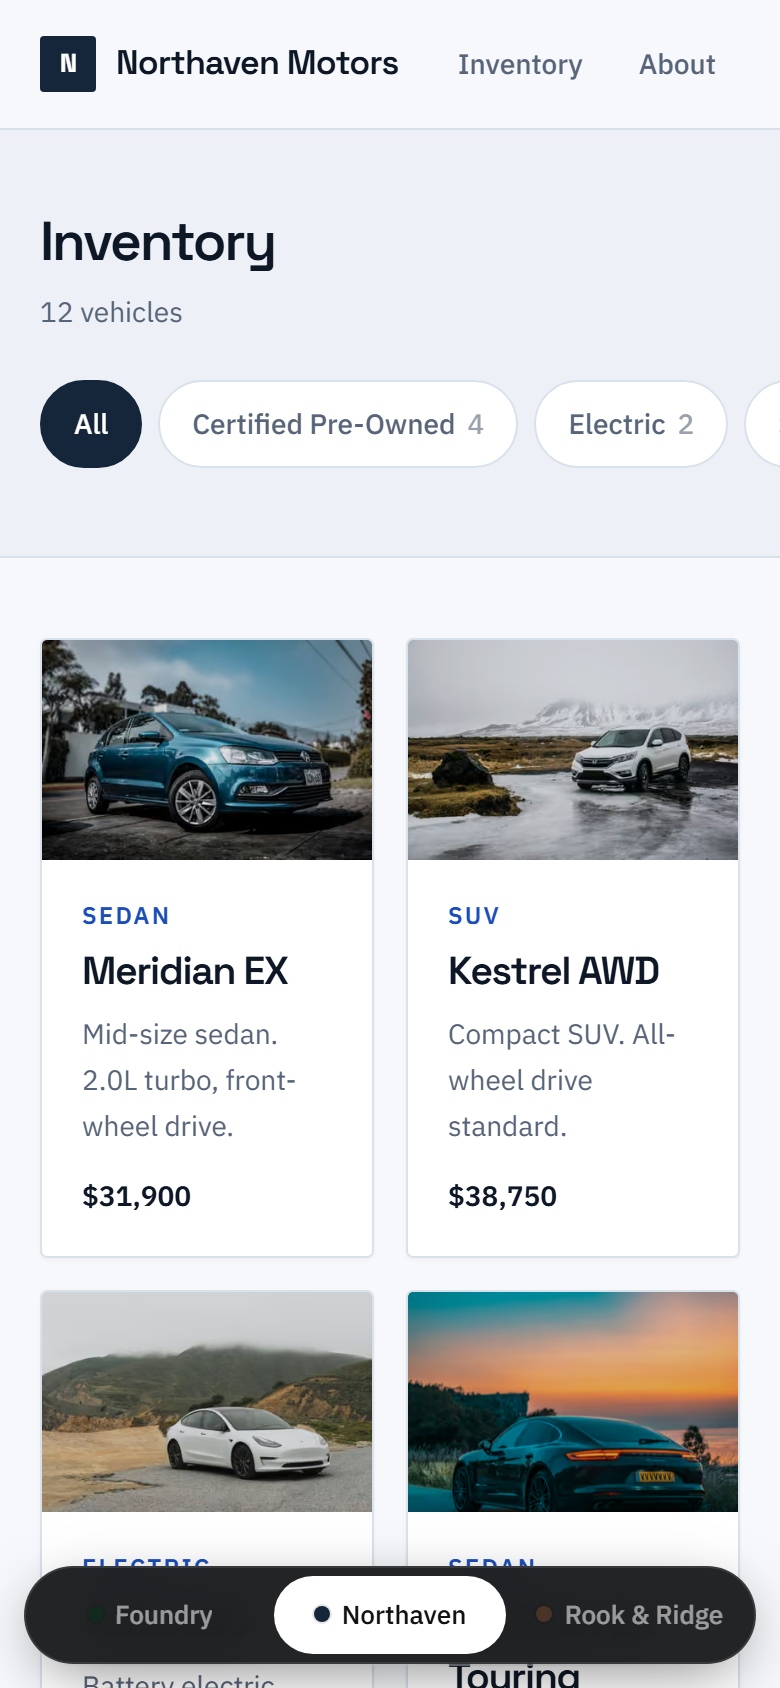
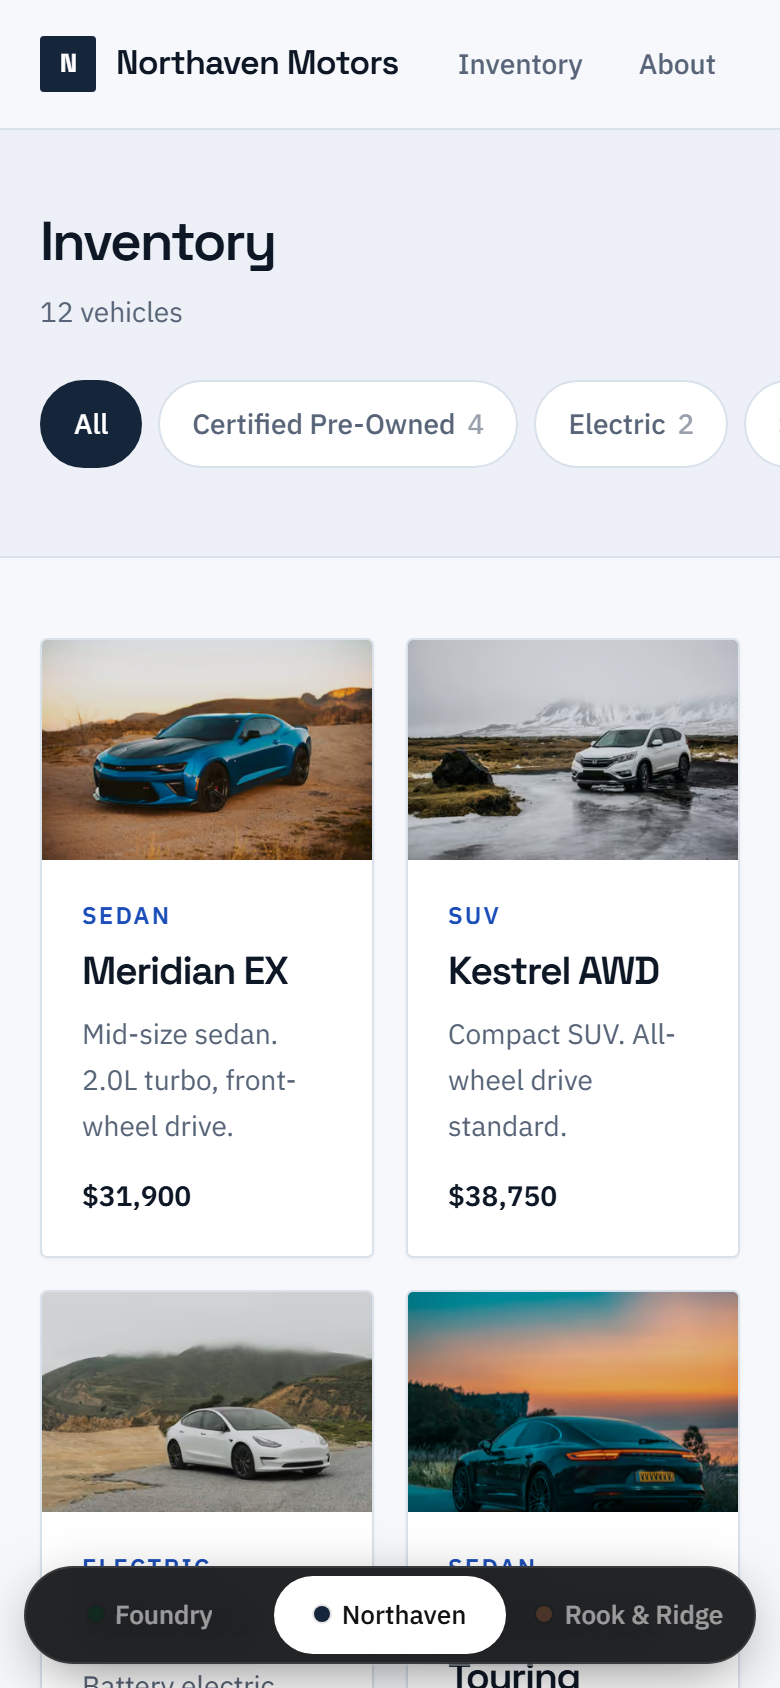
Rebuild the two weak heroes and give the index cards real photography
Index cards used generated artwork while the storefronts behind them had
photography, so the front door looked less finished than the pages it linked to.
Each card now carries a photograph of its brand under a heavier tint, from a new
cardImage field -- separate from heroImage so a preview can show a different
facet of the brand than its own hero does.

Northaven's hero was a small inset car on a pale field, weak beside Foundry's.
It is now full-bleed and dark: a showroom photograph under a diagonal grade that
is near-opaque bottom-left where the content sits and mostly clear top-right so
the photograph still reads as one. Headline and CTAs anchor bottom-left, and the
stat bar sits on the photograph rather than in a white box below it -- two
columns on a phone, because four put 'Point inspection' on three lines and the
numbers stopped being scannable, which is the only reason the bar exists.

Rook & Ridge keeps its editorial asymmetry but the photograph now runs to the
right edge at 56% of the viewport and is taller than the text column. Built as a
grid track rather than an absolutely positioned image: the absolute version
overlapped the centred container and clipped the headline, and a grid track
cannot overlap its sibling.

Changed region(s): [[0.0308, 0.3697, 0.4923, 0.5237]]

diff --git a/src/components/HomeLayouts.tsx b/src/components/HomeLayouts.tsx
@@ -52,9 +52,23 @@ function Backdrop({
   overlay = "hero",
 }: {
   src: string | null;
-  overlay?: "hero" | "band";
+  overlay?: "hero" | "band" | "cinematic";
 }) {
   if (!src) return null;
+
+  // "cinematic" grades from near-opaque at the bottom-left, where the headline
+  // and stat bar sit, to mostly clear at the top right, so the photograph still
+  // reads as a photograph. Tuned by looking at it: the first pass was heavy
+  // enough that the showroom flattened into a plain navy field. The source
+  // photograph is already dark, which is what leaves room to pull the wash back
+  // without losing contrast under the text.
+  const wash =
+    overlay === "cinematic"
+      ? "bg-gradient-to-tr from-primary/95 via-primary/70 to-primary/25"
+      : overlay === "hero"
+        ? "bg-primary opacity-[0.82]"
+        : "bg-primary opacity-[0.9]";
+
   return (
     <>
       <Image
@@ -62,17 +76,24 @@ function Backdrop({
         alt=""
         aria-hidden
         fill
-        priority={overlay === "hero"}
+        priority
         sizes="100vw"
         className="-z-20 object-cover"
       />
-      <span
-        aria-hidden
-        className={`absolute inset-0 -z-10 bg-primary ${overlay === "hero" ? "opacity-[0.82]" : "opacity-[0.9]"}`}
-      />
+      <span aria-hidden className={`absolute inset-0 -z-10 ${wash}`} />
+      {overlay === "cinematic" && (
+        // Second, vertical scrim. On a 390px screen the headline occupies most
+        // of the frame, and the diagonal grade alone left the top of the text
+        // sitting on the brightest part of the photograph.
+        <span
+          aria-hidden
+          className="absolute inset-0 -z-10 bg-gradient-to-t from-primary via-primary/35 to-transparent"
+        />
+      )}
     </>
   );
 }
+
 
 function Cta({
   href,
@@ -81,7 +102,7 @@ function Cta({
 }: {
   href: string;
   children: React.ReactNode;
-  tone?: "primary" | "accent" | "outline" | "onDark";
+  tone?: "primary" | "accent" | "outline" | "onDark" | "ghostOnDark";
 }) {
   const tones = {
     primary: "bg-primary text-primary-ink hover:opacity-90",
@@ -90,6 +111,10 @@ function Cta({
     accent: "bg-accent-ink text-primary-ink hover:opacity-90",
     outline: "border border-hairline-strong text-ink hover:bg-alt",
     onDark: "bg-primary-ink text-primary hover:opacity-90",
+    // Outlined on a photograph: a solid light fill twice in a row flattened the
+    // hierarchy between the primary and secondary action.
+    ghostOnDark:
+      "border border-white/35 text-primary-ink backdrop-blur-sm hover:bg-white/10",
   };
   return (
     <Link
@@ -171,7 +196,7 @@ function CategoryTiles({
               aria-hidden
               className="shrink-0 text-lg text-muted transition-transform group-hover:translate-x-0.5"
             >
-              →
+              &rarr;
             </span>
           </Link>
         </li>
@@ -189,14 +214,27 @@ function Editorial({ tenant, featured, categories, totalVisible }: Props) {
 
   return (
     <>
-      <section className="mx-auto w-full max-w-6xl px-5 pb-16 pt-14 sm:px-8 sm:pb-24 sm:pt-24">
-        <div className="grid gap-12 lg:grid-cols-[1.1fr_0.9fr] lg:items-end lg:gap-20">
-          <div className="rise">
+      {/*
+        Asymmetric by construction. The photograph runs to the right edge of the
+        viewport and is taller than the text column, so it reads as an editorial
+        spread rather than an image inset beside a paragraph.
+
+        This is a two-column grid rather than an absolutely positioned image: at
+        56vw the absolute version overlapped the centred text container and
+        clipped the headline. A grid track cannot overlap its sibling, so the
+        failure is structurally impossible rather than tuned around.
+
+        The left padding reproduces where `max-w-6xl mx-auto` would put the
+        container edge, so the copy still lines up with every section below it.
+      */}
+      <section className="lg:grid lg:grid-cols-[minmax(0,1fr)_56%] lg:items-stretch">
+        <div className="px-5 pb-12 pt-12 sm:px-8 sm:pt-16 lg:py-24 lg:pl-[max(2rem,calc((100vw-72rem)/2))] lg:pr-12">
+          <div className="rise lg:max-w-[34rem]">
             <Eyebrow>{tenant.name}</Eyebrow>
-            <h1 className="display-type mt-5 max-w-[14ch] text-balance text-display font-semibold text-ink">
+            <h1 className="display-type mt-5 max-w-[13ch] text-balance text-display font-semibold text-ink">
               {tenant.tagline}
             </h1>
-            <p className="mt-7 max-w-[46ch] text-pretty text-lede text-muted">
+            <p className="mt-7 max-w-[42ch] text-pretty text-lede text-muted">
               {tenant.about}
             </p>
             <div className="mt-9 flex flex-wrap gap-3">
@@ -206,18 +244,19 @@ function Editorial({ tenant, featured, categories, totalVisible }: Props) {
               </Cta>
             </div>
           </div>
-          <ProductImage
-            src={tenant.heroImage}
-            alt=""
-            seed={tenant.name.length * 7919}
-            treatment={treatment}
-            hero
-            priority
-            tint="soft"
-            className="rise rise-2 aspect-[5/4] w-full rounded-brand-xl border border-hairline shadow-brand-lift"
-            sizes="(max-width: 1024px) 100vw, 45vw"
-          />
         </div>
+
+        <ProductImage
+          src={tenant.heroImage}
+          alt=""
+          seed={tenant.name.length * 7919}
+          treatment={treatment}
+          hero
+          priority
+          tint="soft"
+          className="rise rise-2 aspect-[4/3] w-full border-y border-hairline shadow-brand-lift sm:aspect-[16/9] lg:aspect-auto lg:min-h-[34rem] lg:rounded-l-brand-xl lg:border lg:border-r-0"
+          sizes="(max-width: 1024px) 100vw, 56vw"
+        />
       </section>
 
       {lead && (
@@ -280,50 +319,60 @@ function Editorial({ tenant, featured, categories, totalVisible }: Props) {
 function Dense({ tenant, featured, categories, totalVisible }: Props) {
   const treatment = tenant.theme?.imagery ?? "grid";
 
+  const stats: [string, string][] = [
+    [totalVisible.toString(), "Listed now"],
+    [categories.length.toString(), "Categories"],
+    ["210", "Point inspection"],
+    ["5", "Locations"],
+  ];
+
   return (
     <>
-      <section className="border-b border-hairline bg-alt">
-        <div className="mx-auto w-full max-w-6xl px-5 py-11 sm:px-8 sm:py-16">
-          <div className="rise grid gap-7 lg:grid-cols-[1.4fr_1fr] lg:items-center lg:gap-14">
-            <div>
-              <Eyebrow>{tenant.name}</Eyebrow>
-              <h1 className="display-type mt-4 max-w-[20ch] text-balance text-title font-semibold text-ink">
-                {tenant.tagline}
-              </h1>
-              <p className="mt-4 max-w-[54ch] text-pretty leading-relaxed text-muted">
-                {tenant.about}
-              </p>
-              <div className="mt-7 flex flex-wrap gap-3">
-                <Cta href={catalogHref(tenant)}>{tenant.ctaLabel}</Cta>
-                <Cta href={`/${tenant.slug}/about`} tone="outline">
-                  About us
-                </Cta>
-              </div>
-            </div>
-            <ProductImage
-              src={tenant.heroImage}
-              alt=""
-              seed={tenant.name.length * 7919}
-              treatment={treatment}
-              hero
-              priority
-              tint="soft"
-              className="aspect-[16/7] w-full rounded-brand border border-hairline shadow-brand lg:aspect-[4/3]"
-              sizes="(max-width: 1024px) 100vw, 40vw"
-            />
-          </div>
+      {/*
+        Full-bleed and deliberately dark, but composed differently from the
+        showcase variant: content anchors bottom-left rather than centring, and
+        the stat bar sits on the photograph instead of in a white box beneath it.
+        Same "dense" character — data-forward, tight — with its own identity.
+      */}
+      <section className="relative isolate flex min-h-[clamp(30rem,78svh,44rem)] flex-col justify-end overflow-hidden bg-primary">
+        <Backdrop src={tenant.heroImage} overlay="cinematic" />
 
-          {/* Spec strip — reads as dealer data, and gives the compact hero a base. */}
-          <dl className="mt-9 grid grid-cols-2 gap-px overflow-hidden rounded-brand border border-hairline bg-hairline sm:grid-cols-4">
-            {[
-              [totalVisible.toString(), "Listed now"],
-              [categories.length.toString(), "Categories"],
-              ["210", "Point inspection"],
-              ["5", "Locations"],
-            ].map(([v, k]) => (
-              <div key={k} className="bg-raise px-4 py-3.5">
-                <dt className="text-micro font-semibold uppercase text-muted">{k}</dt>
-                <dd className="display-type mt-1 text-heading font-semibold tabular-nums text-ink">
+        <div className="mx-auto w-full max-w-6xl px-5 pb-8 pt-28 sm:px-8 sm:pb-10 sm:pt-36">
+          <div className="rise max-w-2xl">
+            <p className="text-micro font-semibold uppercase text-primary-ink/75">
+              {tenant.name}
+            </p>
+            <h1 className="display-type mt-4 text-balance text-display font-semibold text-primary-ink">
+              {tenant.tagline}
+            </h1>
+            <p className="mt-5 max-w-[46ch] text-pretty text-lede text-primary-ink/80">
+              {tenant.about}
+            </p>
+            <div className="mt-8 flex flex-wrap gap-3">
+              <Cta href={catalogHref(tenant)} tone="onDark">
+                {tenant.ctaLabel}
+              </Cta>
+              <Cta href={`/${tenant.slug}/about`} tone="ghostOnDark">
+                About us
+              </Cta>
+            </div>
+          </div>
+        </div>
+
+        {/*
+          Stat bar on the photograph. Two columns on a phone rather than four —
+          at 390px, four columns put "Point inspection" on three lines and the
+          numbers stopped being scannable, which is the only reason the bar
+          exists.
+        */}
+        <div className="relative border-t border-white/15 bg-primary/45 backdrop-blur-sm">
+          <dl className="mx-auto grid w-full max-w-6xl grid-cols-2 gap-px px-5 sm:px-8 lg:grid-cols-4">
+            {stats.map(([v, k]) => (
+              <div key={k} className="py-4 lg:py-5">
+                <dt className="text-micro font-semibold uppercase text-primary-ink/60">
+                  {k}
+                </dt>
+                <dd className="display-type mt-1 text-heading font-semibold tabular-nums text-primary-ink">
                   {v}
                 </dd>
               </div>

diff --git a/prisma/seed.ts b/prisma/seed.ts
@@ -45,8 +45,9 @@ const rookRidge = {
   ctaLabel: "See the menu",
   catalogSlug: "menu",
   layoutVariant: "editorial",
-  heroImage: "https://images.unsplash.com/photo-1554118811-1e0d58224f24",
+  heroImage: "https://images.unsplash.com/photo-1497515114629-f71d768fd07c",
   bandImage: "https://images.unsplash.com/photo-1509440159596-0249088772ff",
+  cardImage: "https://images.unsplash.com/photo-1554118811-1e0d58224f24",
   theme: {
     primary: "#4A3428",
     primaryInk: "#FFFFFF",
@@ -221,8 +222,9 @@ const northaven = {
   ctaLabel: "Browse inventory",
   catalogSlug: "inventory",
   layoutVariant: "dense",
-  heroImage: "https://images.unsplash.com/photo-1552519507-da3b142c6e3d",
+  heroImage: "https://images.unsplash.com/photo-1492144534655-ae79c964c9d7",
   bandImage: "https://images.unsplash.com/photo-1567818735868-e71b99932e29",
+  cardImage: "https://images.unsplash.com/photo-1580273916550-e323be2ae537",
   theme: {
     primary: "#16263A",
     primaryInk: "#FFFFFF",
@@ -249,7 +251,7 @@ const northaven = {
   products: [
     {
       slug: "meridian-ex-sedan",
-      imageUrl: "https://images.unsplash.com/photo-1541899481282-d53bffe3c35d",
+      imageUrl: "https://images.unsplash.com/photo-1552519507-da3b142c6e3d",
       name: "Meridian EX",
       blurb: "Mid-size sedan. 2.0L turbo, front-wheel drive.",
       description:
@@ -399,6 +401,7 @@ const foundry = {
   layoutVariant: "showcase",
   heroImage: "https://images.unsplash.com/photo-1571902943202-507ec2618e8f",
   bandImage: "https://images.unsplash.com/photo-1534438327276-14e5300c3a48",
+  cardImage: "https://images.unsplash.com/photo-1534438327276-14e5300c3a48",
   theme: {
     primary: "#12291F",
     primaryInk: "#FFFFFF",
@@ -626,6 +629,7 @@ async function main() {
         catalogSlug: t.catalogSlug,
         layoutVariant: t.layoutVariant,
         heroImage: t.heroImage,
+        cardImage: t.cardImage,
         bandImage: t.bandImage,
         theme: { create: t.theme },
         pages: { create: t.pages },

diff --git a/src/app/page.tsx b/src/app/page.tsx
@@ -1,7 +1,7 @@
 import Link from "next/link";
 import { listTenants } from "@/lib/tenant";
 import { themeToCssVars } from "@/lib/theme";
-import { BrandArt } from "@/components/BrandArt";
+import { ProductImage } from "@/components/ProductImage";
 
 /*
   Platform index.
@@ -53,15 +53,24 @@ export default async function Index() {
               style={themeToCssVars(t.theme)}
               className="card-i group flex h-full flex-col overflow-hidden rounded-brand-lg border border-hairline bg-surface shadow-brand hover:shadow-brand-lift"
             >
-              {/* Real artwork in the brand's own language. */}
-              <div className="overflow-hidden border-b border-hairline">
-                <BrandArt
-                  seed={t.name.length * 7919}
-                  treatment={t.theme?.imagery ?? "arc"}
-                  hero
-                  className="card-art aspect-[16/9] w-full"
-                />
-              </div>
+              {/*
+                A real photograph of the brand, carrying that brand's own tint.
+                The previews used generated artwork while the storefronts behind
+                them had photography, which made the front door look less
+                finished than the pages it linked to. "strong" tint here rather
+                than "soft": at card size the wash is what makes three palettes
+                legible side by side in one glance.
+              */}
+              <ProductImage
+                src={t.cardImage ?? null}
+                alt=""
+                seed={t.name.length * 7919}
+                treatment={t.theme?.imagery ?? "arc"}
+                hero
+                tint="strong"
+                className="aspect-[16/10] w-full border-b border-hairline"
+                sizes="(max-width: 640px) 100vw, (max-width: 1024px) 50vw, 33vw"
+              />
 
               <div className="flex flex-1 flex-col p-6">
                 {/* Set in the brand's own display face at a legible size. */}

diff --git a/src/lib/tenant.ts b/src/lib/tenant.ts
@@ -46,6 +46,7 @@ export const listTenants = cache(async () => {
       catalogSlug: true,
       itemNoun: true,
       layoutVariant: true,
+      cardImage: true,
       theme: true,
     },
     orderBy: { name: "asc" },
